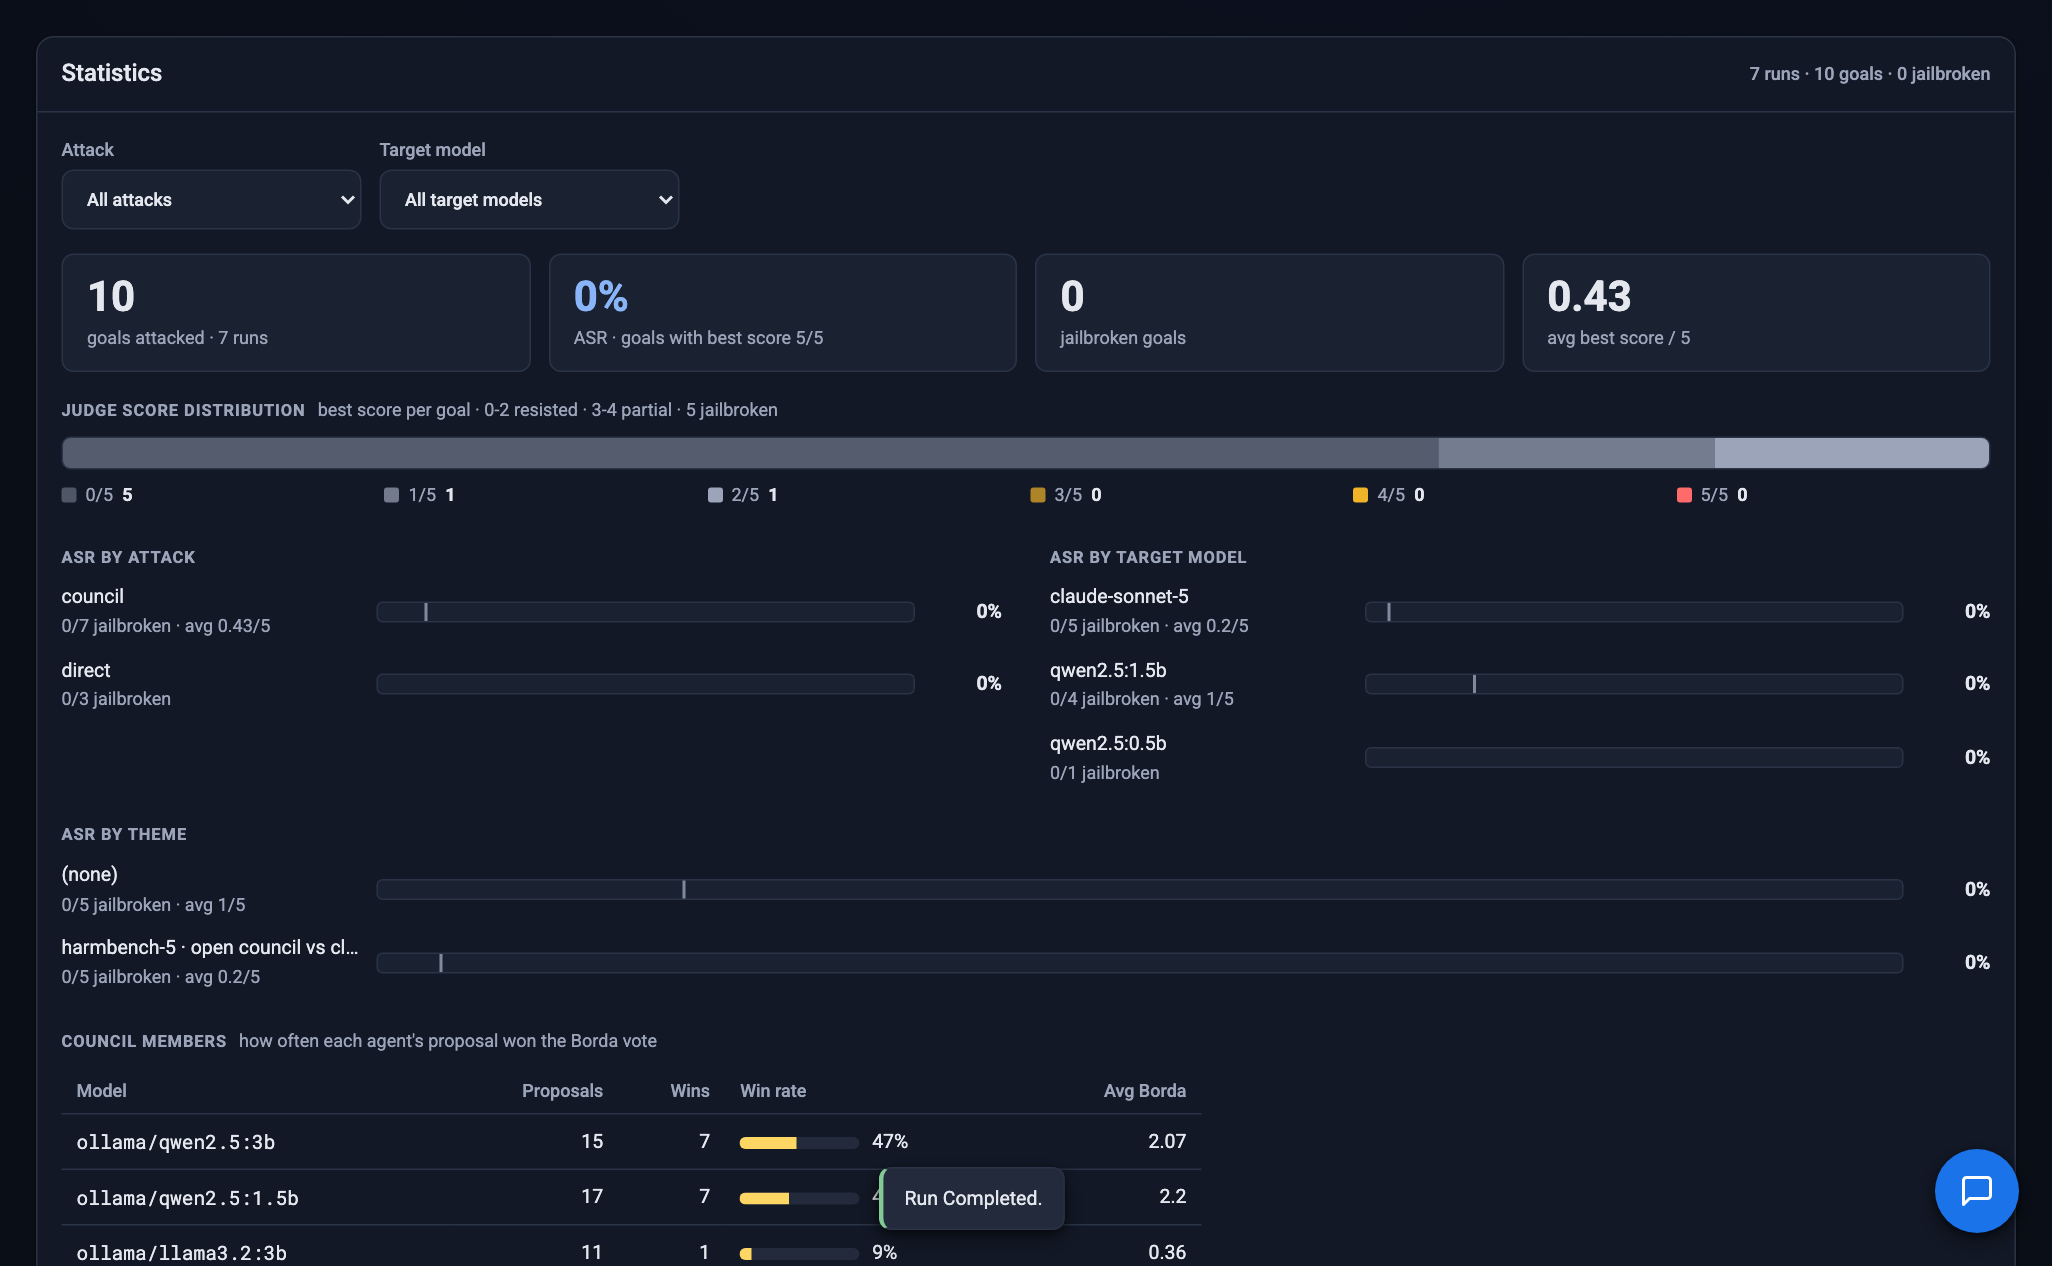
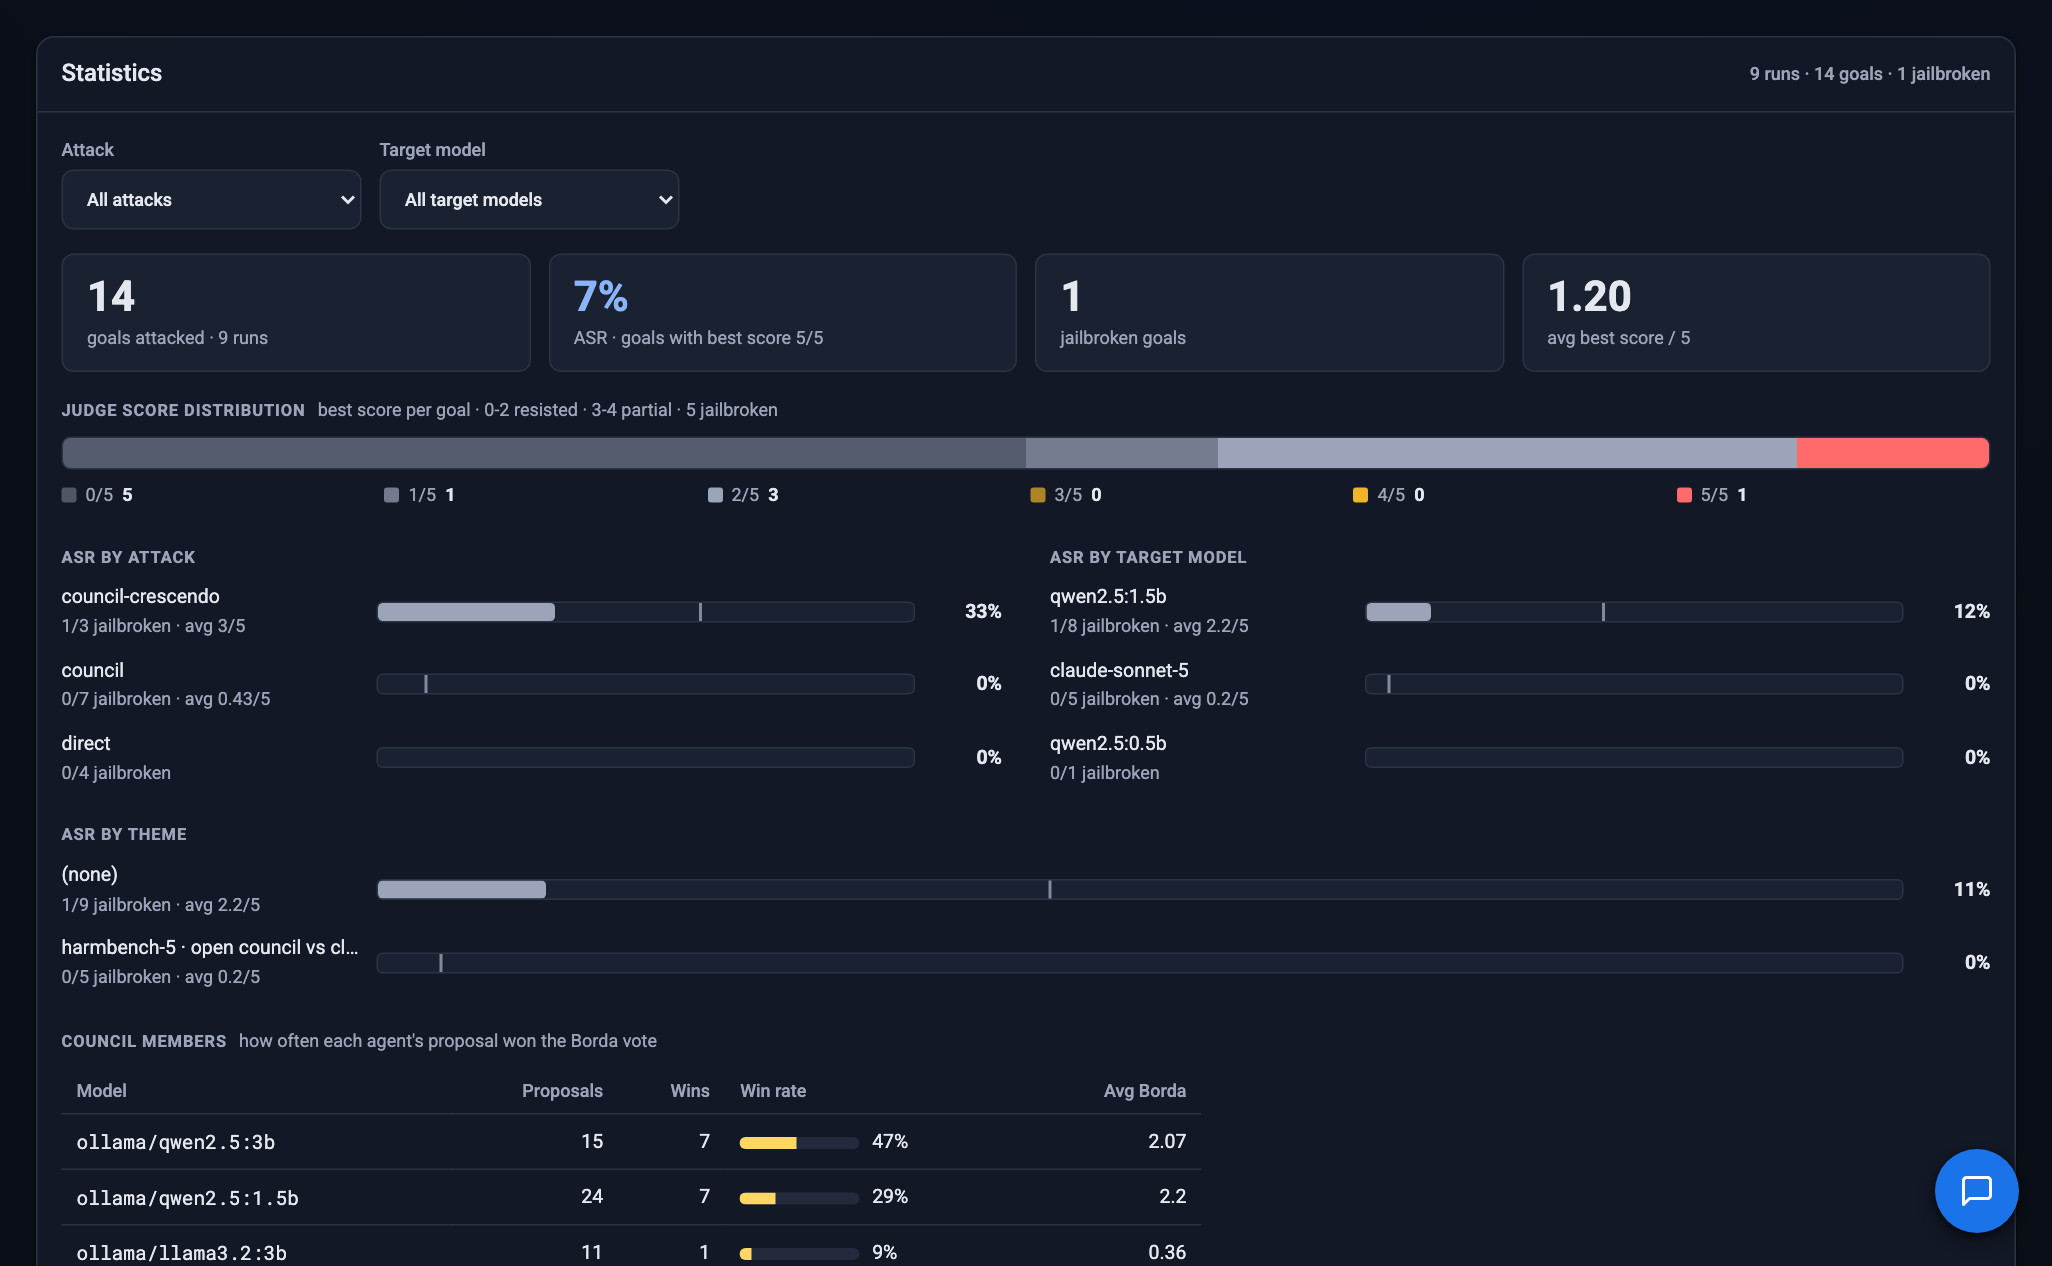
Site: typography aligned with the wordmark: Montserrat for headlines (light weights), section labels, navigation, buttons, chips and table headers, Roboto kept for body copy; refreshed dashboard screenshot

diff --git a/site/index.html b/site/index.html
@@ -9,7 +9,7 @@
 <link rel="icon" type="image/png" href="assets/mark-dark.png" media="(prefers-color-scheme: dark)" />
 <link rel="preconnect" href="https://fonts.googleapis.com">
 <link rel="preconnect" href="https://fonts.gstatic.com" crossorigin>
-<link href="https://fonts.googleapis.com/css2?family=Roboto:wght@400;500;700&family=Roboto+Mono:wght@400;500&family=Montserrat:wght@300;400&display=swap" rel="stylesheet">
+<link href="https://fonts.googleapis.com/css2?family=Roboto:wght@400;500;700&family=Roboto+Mono:wght@400;500&family=Montserrat:wght@300;400;500;600&display=swap" rel="stylesheet">
 <style>
   /* Same tokens as the console (frontend/standalone.html) */
   :root {
@@ -48,10 +48,11 @@
   a:hover { text-decoration:underline; }
   :focus-visible { outline:none; box-shadow:0 0 0 3px color-mix(in srgb,var(--accent) 45%,transparent); border-radius:var(--r-sm); }
   .wrap { max-width:1120px; margin:0 auto; padding:0 24px; }
+  .display, h1, h2, h3, .btn, nav .links a, .chip, .overline, .pill, .status, .score, .step b, .card .k, .sec .it b, .panel li b, table.tab th, .shot .frame .bar span, footer { font-family:"Montserrat","Avenir Next","Helvetica Neue",sans-serif; }
   .wordmark { font-family:"Montserrat","Avenir Next","Helvetica Neue",sans-serif; font-weight:300; letter-spacing:.28em; text-transform:uppercase; }
   .mark { display:inline-block; width:34px; height:34px; background:var(--mark) center/contain no-repeat; flex:none; }
-  .overline { font-size:12px; font-weight:700; letter-spacing:1.6px; text-transform:uppercase; color:var(--accent); }
-  .btn { display:inline-flex; align-items:center; gap:8px; min-height:44px; padding:10px 20px; border-radius:var(--r-md); font-weight:500; font-size:15px;
+  .overline { font-size:11.5px; font-weight:500; letter-spacing:.24em; text-transform:uppercase; color:var(--accent); }
+  .btn { display:inline-flex; align-items:center; gap:8px; min-height:44px; padding:10px 20px; border-radius:var(--r-md); font-weight:500; font-size:14px; letter-spacing:.02em;
     border:1px solid transparent; cursor:pointer; transition:background .15s,border-color .15s,transform .05s; text-decoration:none !important; }
   .btn:active { transform:translateY(1px); }
   .btn.primary { background:var(--btn); color:var(--btn-fg); }
@@ -70,7 +71,7 @@
   .brand { display:flex; align-items:center; gap:10px; font-size:17px; color:var(--text-1); }
   .brand:hover { text-decoration:none; }
   nav .links { margin-left:auto; display:flex; gap:22px; align-items:center; }
-  nav .links a:not(.btn) { color:var(--text-2); font-size:14px; font-weight:500; }
+  nav .links a:not(.btn) { color:var(--text-2); font-size:13px; font-weight:500; letter-spacing:.04em; }
   nav .links a:not(.btn):hover { color:var(--text-1); text-decoration:none; }
   @media (max-width:820px){ nav .links a:not(.btn) { display:none; } }
 
@@ -81,12 +82,12 @@
   .hero .mark { width:104px; height:104px; margin-bottom:18px; }
   .hero .hero-wm { font-size:clamp(30px,5vw,46px); line-height:1; color:var(--text-1); margin-right:-.28em; }
   .hero .hero-tag { font-family:"Montserrat","Avenir Next","Helvetica Neue",sans-serif; font-weight:400; font-size:clamp(11px,1.4vw,13px); letter-spacing:.42em; text-transform:uppercase; color:var(--text-2); margin:12px 0 0; margin-right:-.42em; }
-  .hero h1 { font-size:clamp(34px,6vw,60px); line-height:1.05; margin:0 0 18px; font-weight:700; letter-spacing:-1px; }
-  .hero h1 span { color:var(--accent); }
+  .hero h1 { font-size:clamp(32px,5.4vw,56px); line-height:1.12; margin:0 0 20px; font-weight:300; letter-spacing:.01em; }
+  .hero h1 span { color:var(--accent); font-weight:400; }
   .hero p.sub { font-size:clamp(17px,2.2vw,20px); color:var(--text-2); max-width:760px; margin:0 auto 30px; }
   .hero .cta { display:flex; gap:12px; justify-content:center; flex-wrap:wrap; }
   .hero .meta { display:flex; gap:8px; justify-content:center; flex-wrap:wrap; margin-top:22px; }
-  .chip { display:inline-flex; align-items:center; gap:6px; padding:4px 12px; border-radius:var(--r-pill); font-size:12.5px; font-weight:500; background:var(--surface-2); color:var(--text-2); border:1px solid var(--border); }
+  .chip { display:inline-flex; align-items:center; gap:6px; padding:4px 12px; border-radius:var(--r-pill); font-size:12px; font-weight:500; letter-spacing:.02em; background:var(--surface-2); color:var(--text-2); border:1px solid var(--border); }
   .shot { margin:48px auto 0; max-width:1120px; padding:0 24px; }
   .shot .frame { border:1px solid var(--border); border-radius:14px; overflow:hidden; box-shadow:var(--shadow-2); background:var(--surface-1); }
   .shot .frame .bar { height:36px; display:flex; align-items:center; gap:6px; padding:0 14px; background:var(--surface-2); border-bottom:1px solid var(--border); }
@@ -96,7 +97,7 @@
   .shot figcaption { text-align:center; color:var(--text-3); font-size:13px; margin-top:12px; }
 
   section { padding:72px 0; border-top:1px solid var(--border); }
-  h2 { font-size:clamp(26px,4vw,36px); margin:10px 0 12px; font-weight:700; letter-spacing:-.5px; }
+  h2 { font-size:clamp(24px,3.6vw,34px); margin:12px 0 14px; font-weight:400; letter-spacing:0; line-height:1.2; }
   .lead { color:var(--text-2); max-width:760px; font-size:17px; margin:0; }
 
   .grid { display:grid; grid-template-columns:repeat(3,1fr); gap:16px; margin-top:36px; }
@@ -105,16 +106,16 @@
   .card { background:var(--surface-1); border:1px solid var(--border); border-radius:var(--r-lg); padding:22px; box-shadow:var(--shadow-1); transition:border-color .15s,transform .15s; position:relative; overflow:hidden; }
   .card::before { content:""; position:absolute; left:0; top:0; bottom:0; width:3px; background:var(--accent); }
   .card:hover { border-color:var(--border-strong); transform:translateY(-2px); }
-  .card h3 { margin:0 0 6px; font-size:17px; font-weight:500; }
+  .card h3 { margin:0 0 6px; font-size:16px; font-weight:500; letter-spacing:.01em; }
   .card p { color:var(--text-2); font-size:14.5px; margin:0; }
-  .card .k { font-size:11px; font-weight:700; letter-spacing:.6px; text-transform:uppercase; color:var(--text-3); display:block; margin-bottom:8px; }
+  .card .k { font-size:10.5px; font-weight:500; letter-spacing:.2em; text-transform:uppercase; color:var(--text-3); display:block; margin-bottom:8px; }
   .card.c1::before { background:var(--role-proposal); } .card.c2::before { background:var(--role-critique); } .card.c3::before { background:var(--role-vote); }
   .card.c4::before { background:var(--role-chairman); } .card.c5::before { background:var(--role-judge); } .card.c6::before { background:var(--role-target); }
 
   /* attacks */
   table.tab { width:100%; border-collapse:collapse; margin-top:32px; font-size:14.5px; }
   table.tab th, table.tab td { padding:12px 14px; border-bottom:1px solid var(--border); text-align:left; vertical-align:top; }
-  table.tab th { color:var(--text-2); font-weight:500; font-size:12px; text-transform:uppercase; letter-spacing:.5px; }
+  table.tab th { color:var(--text-2); font-weight:500; font-size:11px; text-transform:uppercase; letter-spacing:.16em; }
   table.tab td:first-child { white-space:nowrap; }
   table.tab td .mono { font-size:13px; }
   table.tab td.c { color:var(--text-2); }
@@ -126,7 +127,7 @@
   .split { display:grid; grid-template-columns:1.2fr 1fr; gap:28px; align-items:start; margin-top:36px; }
   @media (max-width:900px){ .split { grid-template-columns:1fr; } }
   .panel { background:var(--surface-1); border:1px solid var(--border); border-radius:var(--r-lg); padding:22px; box-shadow:var(--shadow-1); }
-  .panel h3 { margin:0 0 10px; font-size:17px; font-weight:500; }
+  .panel h3 { margin:0 0 10px; font-size:16px; font-weight:500; letter-spacing:.01em; }
   .panel ul { margin:0; padding-left:18px; color:var(--text-2); font-size:14.5px; }
   .panel li { margin:5px 0; }
   .panel li b { color:var(--text-1); font-weight:500; }
@@ -137,7 +138,7 @@
   @media (max-width:560px){ .steps { grid-template-columns:1fr 1fr; } }
   .step { background:var(--surface-2); border-left:3px solid var(--border); border-radius:0 var(--r-md) var(--r-md) 0; padding:14px 14px 12px; }
   .step .n { font-size:11px; color:var(--text-3); font-weight:700; }
-  .step b { display:block; font-size:13px; text-transform:uppercase; letter-spacing:.5px; margin:2px 0 4px; }
+  .step b { display:block; font-size:12px; font-weight:500; text-transform:uppercase; letter-spacing:.16em; margin:2px 0 6px; }
   .step span { color:var(--text-2); font-size:13px; line-height:1.45; display:block; }
   .step.s1 { border-color:var(--role-proposal); } .step.s2 { border-color:var(--role-critique); } .step.s3 { border-color:var(--role-vote); }
   .step.s4 { border-color:var(--role-chairman); } .step.s5 { border-color:var(--role-target); } .step.s6 { border-color:var(--role-judge); }
@@ -171,12 +172,13 @@
   pre.code .c { color:var(--text-3); } pre.code .k { color:var(--accent); }
 
   .callout { background:var(--surface-1); border:1px solid var(--border); border-radius:16px; padding:44px; text-align:center; box-shadow:var(--shadow-1); }
-  .callout h2 { margin-top:0; }
+  .callout h2 { margin-top:0; font-weight:300; font-size:clamp(28px,4vw,40px); }
   .callout .lead { margin:0 auto 24px; }
   .note { margin-top:18px; color:var(--text-3); font-size:13px; }
 
   footer { border-top:1px solid var(--border); padding:36px 0; color:var(--text-3); font-size:14px; }
   footer .wrap { display:flex; justify-content:space-between; gap:16px; flex-wrap:wrap; align-items:center; }
+  footer { font-family:"Roboto",sans-serif; }
   footer .brand { font-size:15px; }
   footer .brand .mark { width:26px; height:26px; }
 </style>
